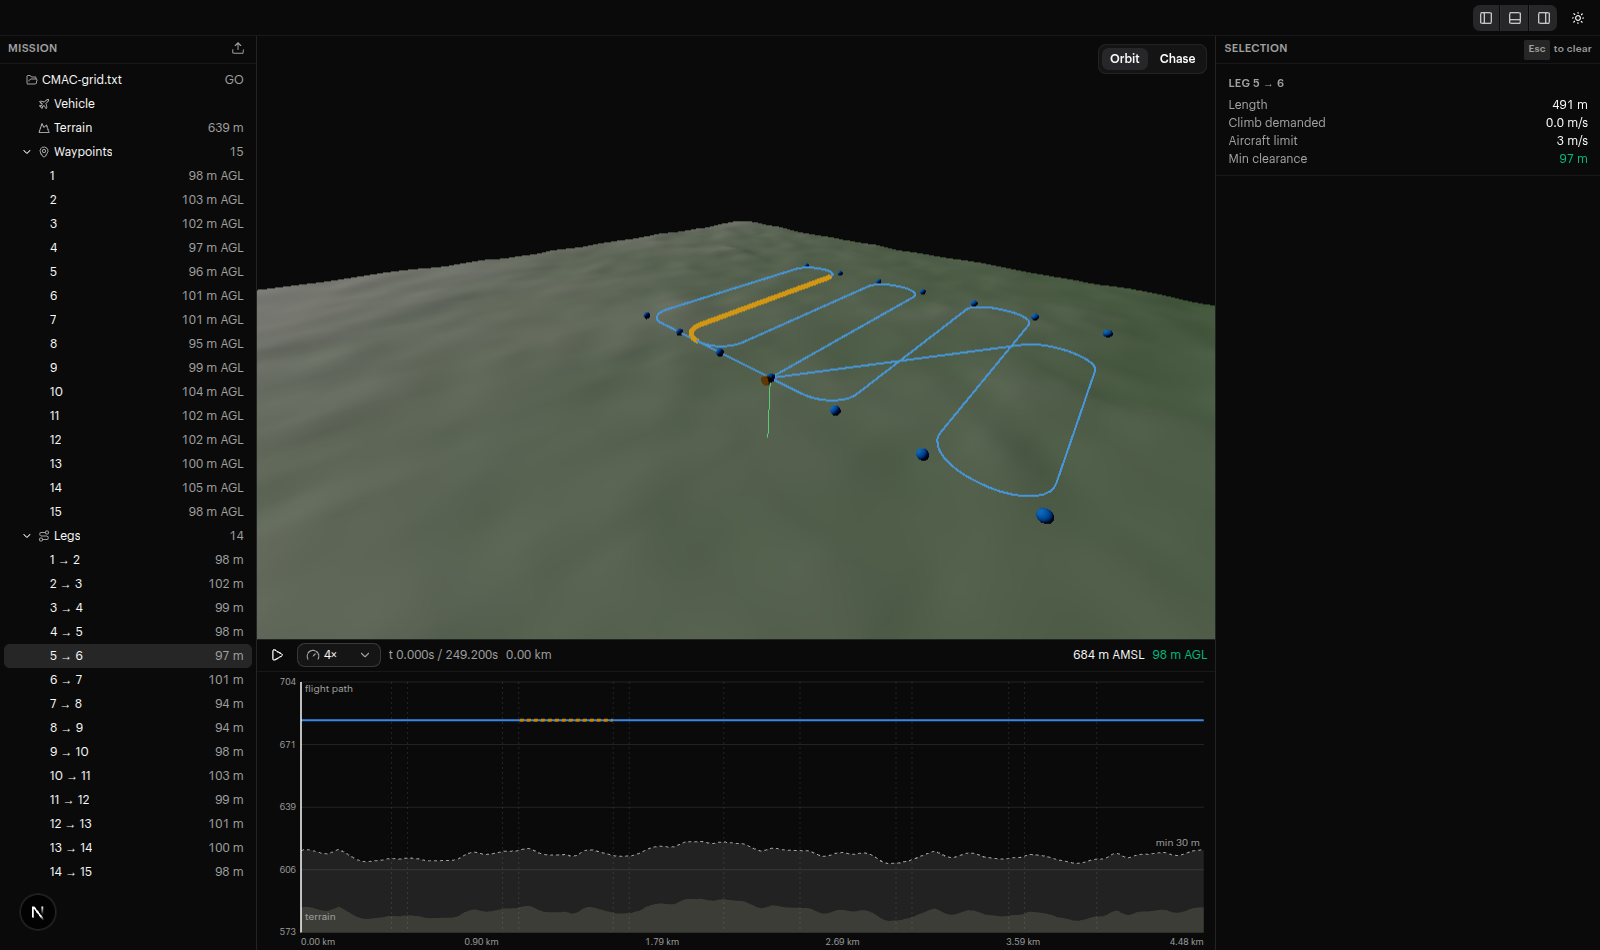
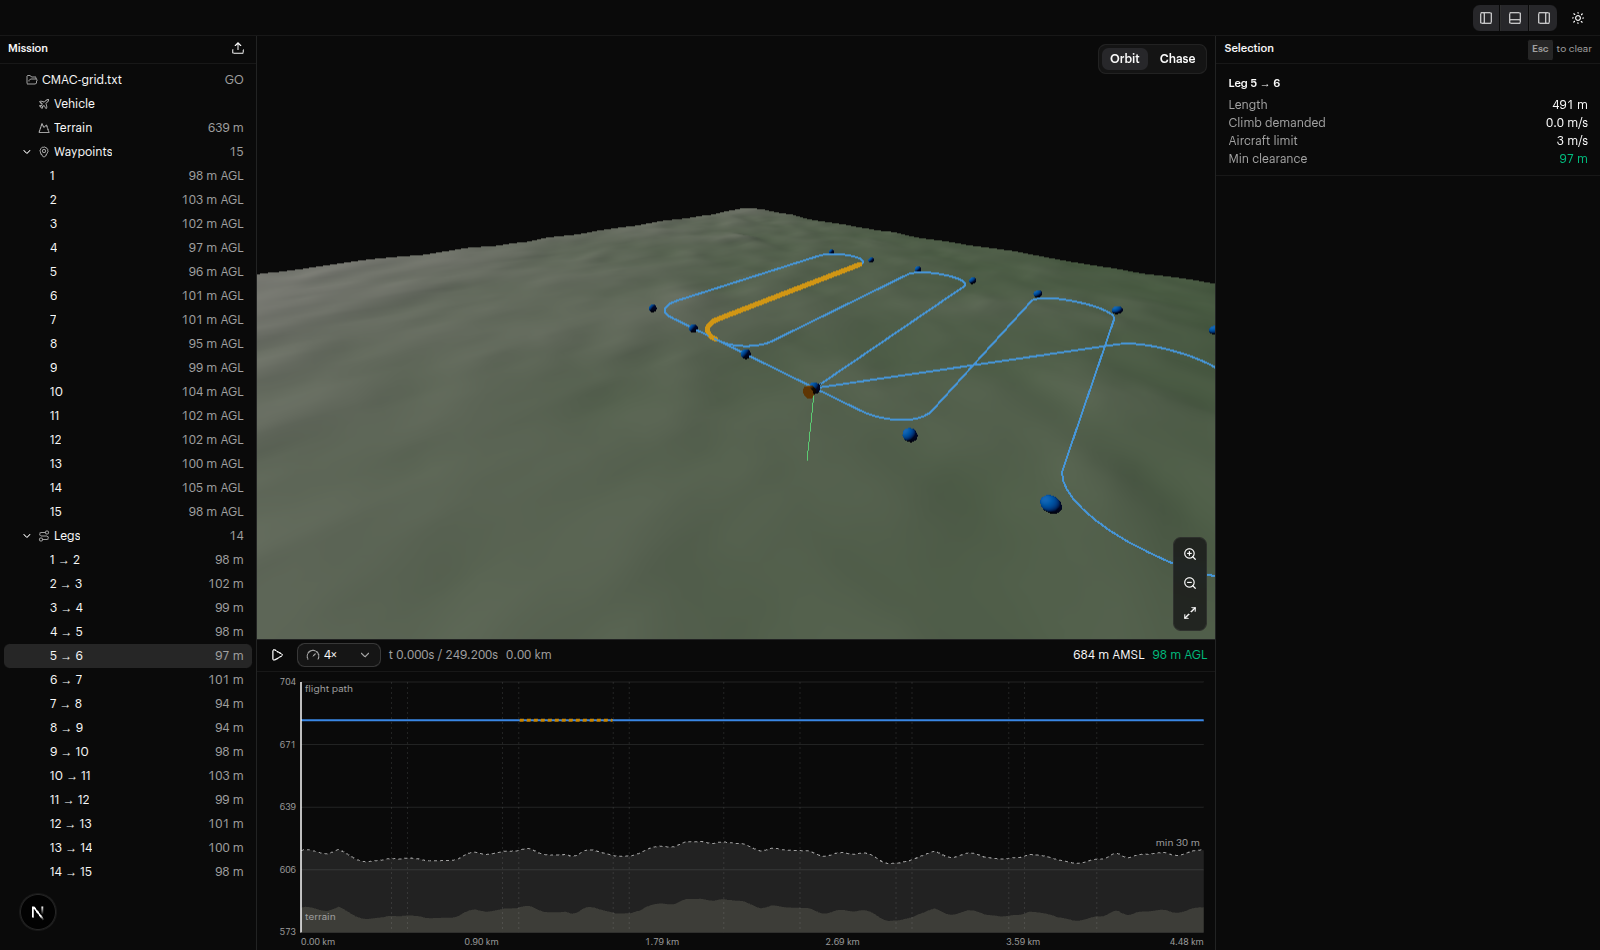
Add zoom controls to the 3D view; set section headers in medium sentence case

diff --git a/components/Scene.tsx b/components/Scene.tsx
@@ -1,9 +1,15 @@
 'use client'
 
-import { useEffect, useMemo, useRef } from 'react'
+import { Fragment, useEffect, useMemo, useRef } from 'react'
 import { Canvas, useFrame, useThree } from '@react-three/fiber'
 import { OrbitControls, Line } from '@react-three/drei'
 import { useTheme } from 'next-themes'
+import { Maximize2, ZoomIn, ZoomOut } from 'lucide-react'
+import { Button } from '@/components/ui/button'
+import {
+  ButtonGroup,
+  ButtonGroupSeparator,
+} from '@/components/ui/button-group'
 import * as THREE from 'three'
 import { gridToMesh } from '@/lib/terrain'
 import { enuFactors } from '@/lib/mission'
@@ -132,12 +138,14 @@ function Rig({
   focus,
   chase,
   flying,
+  cmd,
 }: {
   center: THREE.Vector3
   home: THREE.Vector3
   focus: THREE.Vector3 | null
   chase: boolean
   flying: React.RefObject<boolean>
+  cmd: React.RefObject<((what: 'in' | 'out' | 'fit') => void) | null>
 }) {
   const { camera, controls } = useThree() as unknown as {
     camera: THREE.Camera
@@ -152,6 +160,25 @@ function Rig({
     controls.target.copy(center)
     controls.update()
   }, [controls, camera, center, home])
+
+  // Buttons dolly along the view axis — the same thing the wheel does, for
+  // trackpads and touch where the wheel is awkward.
+  cmd.current = (what) => {
+    if (!controls) return
+    flying.current = false
+    if (what === 'fit') {
+      camera.position.copy(home)
+      controls.target.copy(center)
+    } else {
+      const t = controls.target
+      const f = what === 'in' ? 0.75 : 1 / 0.75
+      // scale the existing view vector — read it before touching position
+      const offset = camera.position.clone().sub(t)
+      const d = Math.min(120000, Math.max(30, offset.length() * f))
+      camera.position.copy(t).addScaledVector(offset.normalize(), d)
+    }
+    controls.update()
+  }
 
   // A selection flies the camera to it, then hands control back. It used to
   // lerp forever, so dragging snapped back the moment you let go.
@@ -246,6 +273,7 @@ export default function Scene({
 
   const selectedWp = selection?.kind === 'waypoint' ? selection.index : -1
   const flying = useRef(false)
+  const cmd = useRef<((what: 'in' | 'out' | 'fit') => void) | null>(null)
 
   // the selected leg, drawn over the path so it reads in 3D as well as the tree
   const legPath = useMemo(() => {
@@ -257,6 +285,7 @@ export default function Scene({
   }, [selection, survey])
 
   return (
+    <>
     <Canvas
       // ponytail: AA off and DPR capped at 1.5. On a 4K display the default
       // devicePixelRatio alone quadruples the fragment cost for a terrain mesh
@@ -270,7 +299,14 @@ export default function Scene({
       <Terrain survey={survey} />
       <Line points={path as [number, number, number][]} color={colors.flight} lineWidth={2} />
       {legPath && <Line points={legPath} color={colors.aircraft} lineWidth={5} />}
-      <Rig center={center} home={homePos} focus={focus} chase={chase} flying={flying} />
+      <Rig
+        center={center}
+        home={homePos}
+        focus={focus}
+        chase={chase}
+        flying={flying}
+        cmd={cmd}
+      />
       <Aircraft
         survey={survey}
         home={homePos}
@@ -313,5 +349,32 @@ export default function Scene({
         }}
       />
     </Canvas>
+    <ButtonGroup
+      orientation="vertical"
+      className="bg-card/80 border-border/60 absolute right-2 bottom-2 rounded-md border p-0.5 backdrop-blur"
+    >
+      {(
+        [
+          [ZoomIn, 'in', 'Zoom in'],
+          [ZoomOut, 'out', 'Zoom out'],
+          [Maximize2, 'fit', 'Frame mission'],
+        ] as const
+      ).map(([Icon, what, label], i) => (
+        <Fragment key={what}>
+          {i > 0 && <ButtonGroupSeparator />}
+          <Button
+            size="icon"
+            variant="ghost"
+            aria-label={label}
+            className="size-7"
+            disabled={chase}
+            onClick={() => cmd.current?.(what)}
+          >
+            <Icon className="size-3.5" />
+          </Button>
+        </Fragment>
+      ))}
+    </ButtonGroup>
+    </>
   )
 }

diff --git a/app/page.tsx b/app/page.tsx
@@ -29,7 +29,7 @@ function PanelTitle({
   action?: React.ReactNode
 }) {
   return (
-    <div className="border-border/60 text-muted-foreground flex h-7 shrink-0 items-center gap-2 border-b px-2 text-[11px] font-medium tracking-wide uppercase">
+    <div className="border-border/60 flex h-7 shrink-0 items-center gap-2 border-b px-2 text-[11px] font-medium">
       {children}
       {action && <span className="ml-auto">{action}</span>}
     </div>
@@ -257,7 +257,7 @@ export default function Page() {
                 <PanelTitle
                   action={
                     selection && (
-                      <span className="flex items-center gap-1 text-[10px] normal-case">
+                      <span className="text-muted-foreground flex items-center gap-1 text-[10px] font-normal">
                         <Kbd>Esc</Kbd> to clear
                       </span>
                     )

diff --git a/components/inspector.tsx b/components/inspector.tsx
@@ -13,7 +13,7 @@ const m = (v: number) => `${v.toFixed(0)} m`
 function Section({ title, children }: { title: string; children: React.ReactNode }) {
   return (
     <div className="border-border/60 border-b py-2">
-      <div className="text-muted-foreground px-3 pb-1 text-[11px] font-medium tracking-wide uppercase">
+      <div className="px-3 pb-1 text-[11px] font-medium">
         {title}
       </div>
       <div className="space-y-0.5 px-3">{children}</div>
